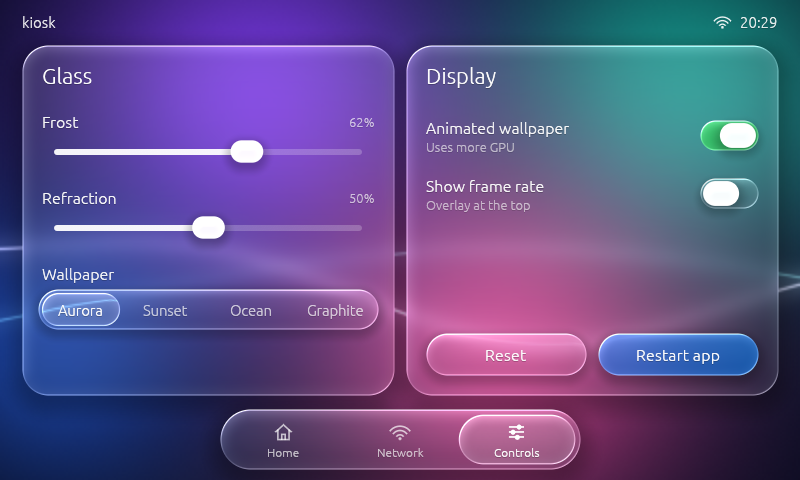
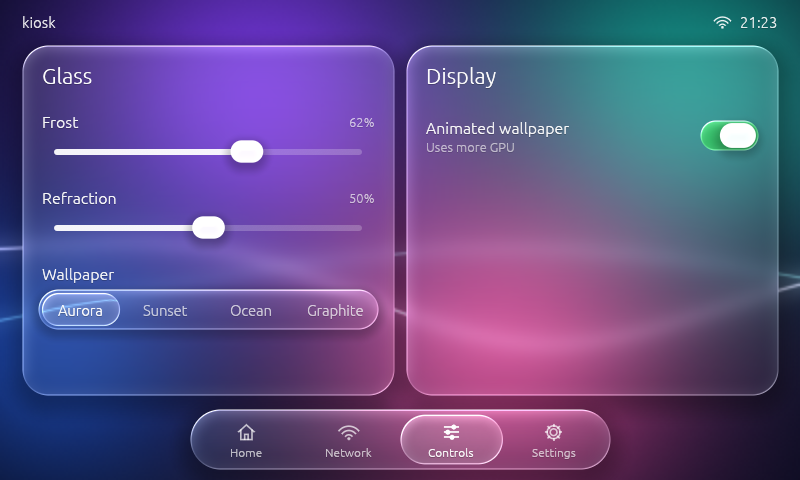
docs: Settings tab and touch calibration, refresh screenshots

diff --git a/README.md b/README.md
@@ -48,6 +48,11 @@ and `cmdline.txt` sets `video=HDMI-A-1:800x480@60e`. Touch is USB HID (built int
   panel with `/sys/class/backlight` (e.g. a DSI panel) it appears automatically.
 - kiosk-ui would prefer a DSI panel over HDMI if both were connected; `UI_OUTPUT=hdmi` in
   `kiosk.conf` reverses that.
+- The touch layer is resistive and single-touch. kiosk-ui accepts a tap that wobbles up to 20 px,
+  because a fingertip moves that much while pressed.
+- The image ships a touch calibration for this panel
+  (`board/rpi3/rootfs-overlay/etc/udev/rules.d/99-touch-calibration.rules`). To recalibrate on the
+  device, open **Settings → Calibrate** and tap the five crosses.
 
 ## Configure (no rebuild needed)
 
@@ -68,13 +73,21 @@ custom GLES 2 shader. It draws straight to the display through DRM/KMS + GBM + E
 Wayland), and reads touch, mouse and keyboard through libinput.
 
 The layout adapts: a compact design for 800×480 panels, a roomier one from 1280×720 up
-(`docs/kiosk-ui-1280x720.png`). Three pages, switched with the floating tab bar, a horizontal swipe or the arrow keys:
+(`docs/kiosk-ui-1280x720.png`). Four pages, switched with the floating tab bar, a horizontal swipe or the arrow keys:
 - **Home**: clock, date, network address, uptime, CPU temperature and memory
 - **Network**: interfaces with addresses and state, WiFi signal, gateway, DNS
 - **Controls**: frost and refraction sliders, wallpaper themes, brightness (on panels with a
-  backlight), animated-wallpaper and FPS toggles
+  backlight), animated-wallpaper toggle
+- **Settings** (`docs/kiosk-ui-settings.png`): touch calibration, frame-rate overlay, reset the look,
+  restart the app
 
-Settings changed on the Controls page are saved to `/data/app/kiosk-ui.conf`.
+**Touch calibration:** **Calibrate** shows five crosses, one after another. Tap the centre of each.
+kiosk-ui fits a libinput calibration matrix to the taps, then shows a check screen where dots mark
+where your touches land. **Keep** saves it. Without Keep, the previous calibration comes back after
+15 s, so a bad calibration can't lock you out. **Reset** returns to the image's default.
+
+Settings are saved to `/data/app/kiosk-ui.conf`. A touch calibration saved there survives
+re-flashing the root filesystem.
 
 **Run it on your Mac** while developing (opens a 1280×720 window):
 
@@ -90,7 +103,8 @@ kiosk-ui --screenshot shot.png --size 800x480 --page all
 ```
 
 `cargo test` drives the real UI with simulated touches (tab bar, toggle, slider, segmented
-control, swipe, brightness) at 1280×720 and 800×480 in an offscreen GL context.
+control, swipe, brightness, a full touch calibration) at 1280×720 and 800×480 in an offscreen GL
+context.
 
 Display settings live in `kiosk.conf` (`UI_FPS`, `UI_SCALE`, `UI_MODE`, `UI_OUTPUT`). Copy a photo named
 `wallpaper.jpg` onto the boot partition and pick "Photo" on the Controls page to put the glass
@@ -105,7 +119,8 @@ Source layout:
 kiosk-ui/src/glass.rs     glass renderer: wallpaper, blur chain, glass shader as egui paint callbacks
 kiosk-ui/src/shaders/     GLSL ES 1.00 shaders (re-prefixed for desktop GL on the Mac)
 kiosk-ui/src/widgets.rs   glass button, toggle, slider, segmented control, tab bar, icons
-kiosk-ui/src/app.rs       the three pages
+kiosk-ui/src/app.rs       the four pages and settings
+kiosk-ui/src/calibrate.rs touch calibration: affine fit and the calibration screen
 kiosk-ui/src/kms.rs       DRM/KMS + GBM + EGL + libinput backend (prefers the DSI panel)
 kiosk-ui/src/backlight.rs display brightness via /sys/class/backlight
 kiosk-ui/src/headless.rs  offscreen rendering, screenshots, UI test
